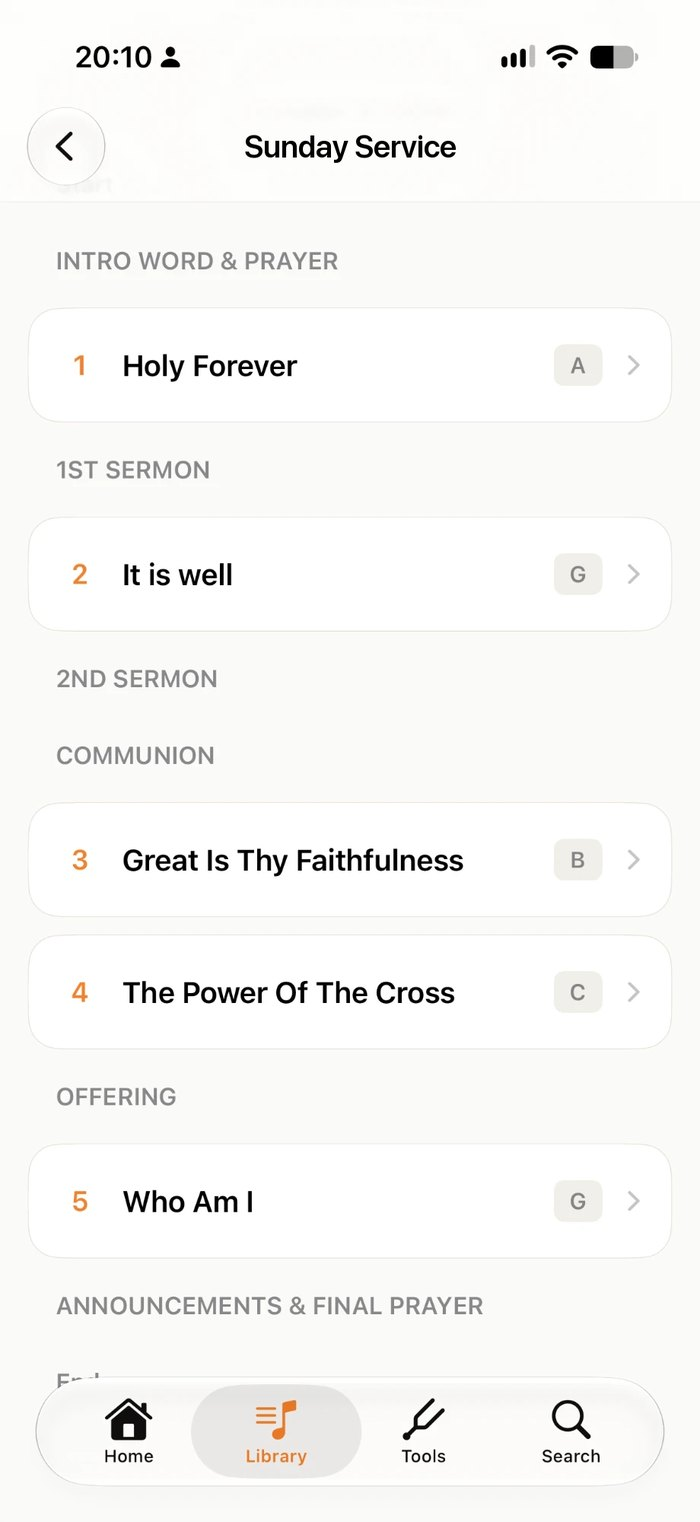
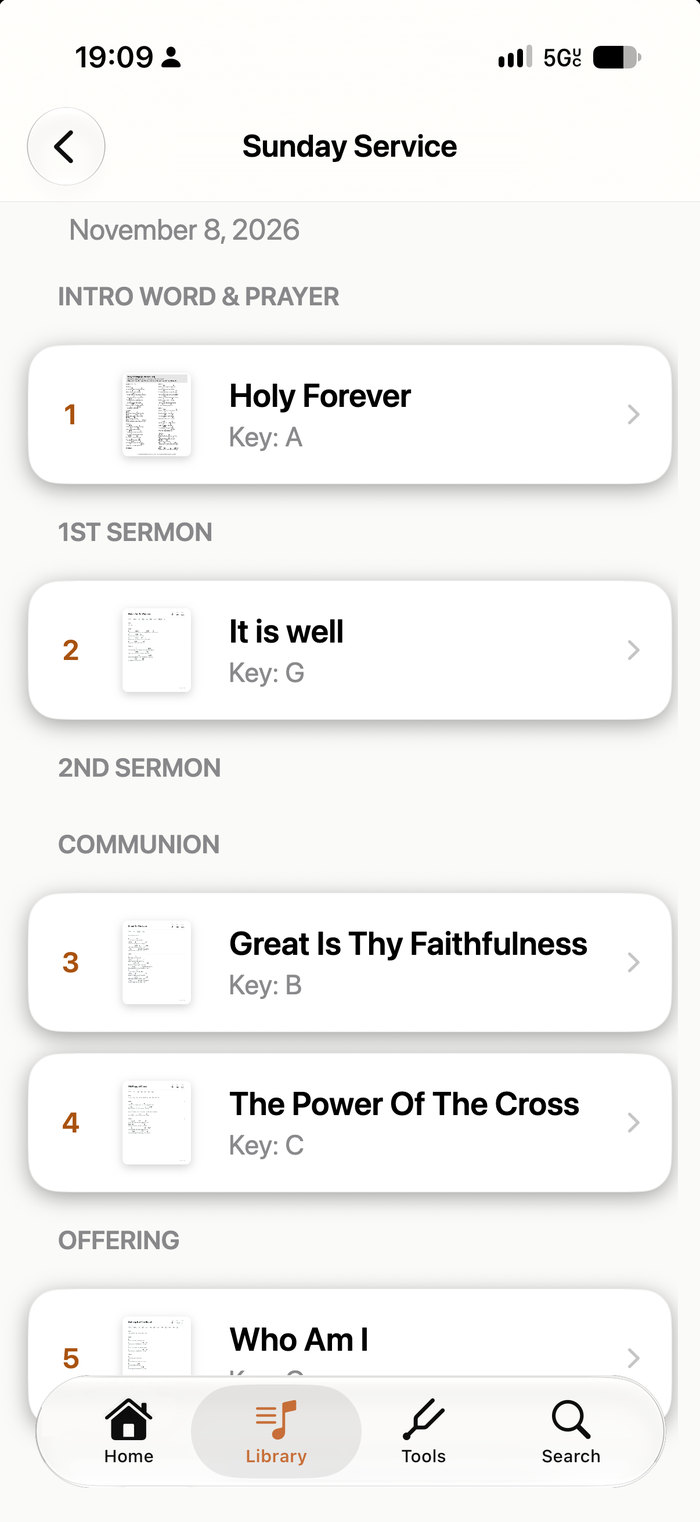
Planning Center plan on 4.2: the site's Sunday Service in the new plan layout
Rebuilt from the owner's 4.2 iPhone capture of a Planning Center plan (full-resolution
original, kept private): same order of service as before (Intro Word & Prayer, 1st and
2nd Sermon, Communion, Offering; Holy Forever A, It is well G, Great Is Thy Faithfulness B,
The Power Of The Cross C, Who Am I G), set in the app's measured layout and type: the
real cards and shadows, nav bar and tab bar (its glass cleaned of the old rows), titles
and keys in the system font at the app's sizes. No lengths, as before, so the header
shows only the date and no section times, as the app does for an untimed plan. 700x1522.

diff --git a/index.html b/index.html
@@ -257,7 +257,7 @@
           <img class="partner-logo" src="assets/planning-center-services-logo.svg" alt="Planning Center Services" width="194" height="42" loading="lazy">
           <h3>Works with <em>Planning Center.</em></h3>
           <p>Connect your Planning Center Services account and your team's songs and upcoming services appear next to your set lists, ready to play.</p>
-          <div class="step-visual"><div class="device phone"><div class="screen shot"><img src="assets/planning-center-iphone.jpg?v=1" alt="A Planning Center service plan in Music Folder on iPhone: the order of service with five songs, each with its key" width="700" height="1522" loading="lazy"></div></div></div>
+          <div class="step-visual"><div class="device phone"><div class="screen shot"><img src="assets/planning-center-iphone.jpg?v=2" alt="A Planning Center service plan in Music Folder on iPhone: the order of service with five songs, each with its key" width="700" height="1522" loading="lazy"></div></div></div>
         </article>
         <article class="step" data-step="4" id="teams">
           <h3>Work together as a team.</h3>
@@ -270,7 +270,7 @@
           <div class="frame is-active" data-step="0"><div class="device phone"><div class="screen shot"><img src="assets/library-screen.jpg?v=3" alt="" width="700" height="1522" loading="lazy"></div></div></div>
           <div class="frame" data-step="1"><div class="device tablet landscape"><div class="screen shot"><img src="assets/setlist-concert-ipad.jpg?v=3" alt="" width="1306" height="980" loading="lazy"></div></div></div>
           <div class="frame" data-step="2"><div class="device tablet"><div class="screen shot"><img src="assets/annotate-ipad.jpg?v=2" alt="" width="900" height="1305" loading="lazy"></div><svg class="pencil" viewBox="0 0 380 22" aria-hidden="true" focusable="false"><defs><linearGradient id="pcBody" x1="0" y1="0" x2="0" y2="1"><stop offset="0" stop-color="#FFFFFF"/><stop offset=".38" stop-color="#F7F7F5"/><stop offset=".8" stop-color="#DEDEDA"/><stop offset="1" stop-color="#C9C9C5"/></linearGradient><linearGradient id="pcTip" x1="0" y1="0" x2="0" y2="1"><stop offset="0" stop-color="#FAFAF8"/><stop offset="1" stop-color="#CFCFCB"/></linearGradient></defs><path d="M34 1H369a10 10 0 0 1 0 20H34Z" fill="url(#pcBody)"/><path d="M34 4.2H369" stroke="#fff" stroke-width="1.6" opacity=".9"/><path d="M34 15.6H372" stroke="#000" stroke-opacity=".05" stroke-width="1"/><path d="M34 1L7 9.2v3.6L34 21Z" fill="url(#pcTip)"/><path d="M8.2 8.8L1 10.4a.7.7 0 0 0 0 1.2L8.2 13.2Z" fill="#8E8E8A"/><path d="M34 1v20" stroke="#000" stroke-opacity=".06"/></svg></div></div>
-          <div class="frame" data-step="3"><div class="device phone"><div class="screen shot"><img src="assets/planning-center-iphone.jpg?v=1" alt="" width="700" height="1522" loading="lazy"></div></div></div>
+          <div class="frame" data-step="3"><div class="device phone"><div class="screen shot"><img src="assets/planning-center-iphone.jpg?v=2" alt="" width="700" height="1522" loading="lazy"></div></div></div>
           <div class="frame" data-step="4"><div class="device tablet fit"><div class="screen shot"><img src="/assets/collab-ipad.jpg?v=2" alt="" width="900" height="1306" loading="lazy"></div></div></div>
         </div>
       </div>

diff --git a/for/worship-teams.html b/for/worship-teams.html
@@ -233,7 +233,7 @@
       <div class="rf-visual"><div class="device phone fit"><div class="screen shot"><img src="/assets/recording-iphone.jpg?v=1" alt="A chord chart for Come Thou Fount open in Music Folder on iPhone, with the song's reference recording playing in the bar above the chart" width="700" height="1522" loading="lazy"></div></div></div>
     </div><div class="row-feature">
       <div class="rf-text"><h2 class="heading-sm">Works with <em class="pc">Planning Center.</em></h2><p>If your church plans in Planning Center, connect it and upcoming services appear next to your set lists, in order, with each song’s key. Mix in your own charts, and the plan’s audio plays right in the reader.</p><ul class="rf-points"><li><svg viewBox="0 0 16 16" fill="none" stroke="currentColor" stroke-width="1.9" stroke-linecap="round" stroke-linejoin="round" aria-hidden="true"><path d="M3 8.5l3 3 7-7"/></svg><span>Your team’s song library as a folder</span></li><li><svg viewBox="0 0 16 16" fill="none" stroke="currentColor" stroke-width="1.9" stroke-linecap="round" stroke-linejoin="round" aria-hidden="true"><path d="M3 8.5l3 3 7-7"/></svg><span>Upcoming services next to your set lists</span></li><li><svg viewBox="0 0 16 16" fill="none" stroke="currentColor" stroke-width="1.9" stroke-linecap="round" stroke-linejoin="round" aria-hidden="true"><path d="M3 8.5l3 3 7-7"/></svg><span>Read-only: plans stay in Planning Center</span></li></ul><p class="rf-more"><a href="/planning-center">How the connection works</a></p></div>
-      <div class="rf-visual"><div class="device phone fit"><div class="screen shot"><img src="/assets/planning-center-iphone.jpg?v=1" alt="A Planning Center service plan in Music Folder on iPhone: the order of service with five songs, each with its key" width="700" height="1522" loading="lazy"></div></div></div>
+      <div class="rf-visual"><div class="device phone fit"><div class="screen shot"><img src="/assets/planning-center-iphone.jpg?v=2" alt="A Planning Center service plan in Music Folder on iPhone: the order of service with five songs, each with its key" width="700" height="1522" loading="lazy"></div></div></div>
     </div>
   </div>
 </section>

diff --git a/planning-center.html b/planning-center.html
@@ -219,7 +219,7 @@
   <div class="wrap rows pc-rows">
     <div class="row-feature">
       <div class="rf-text"><h2 class="heading-sm">Every service, <em>in order.</em></h2><p>Each upcoming service shows its songs in the order of the plan, with each song's key, ready to open.</p><ul class="rf-points"><li><svg viewBox="0 0 16 16" fill="none" stroke="currentColor" stroke-width="1.9" stroke-linecap="round" stroke-linejoin="round" aria-hidden="true"><path d="M3 8.5l3 3 7-7"/></svg><span>Upcoming services next to your set lists</span></li><li><svg viewBox="0 0 16 16" fill="none" stroke="currentColor" stroke-width="1.9" stroke-linecap="round" stroke-linejoin="round" aria-hidden="true"><path d="M3 8.5l3 3 7-7"/></svg><span>Your team's song library as a folder</span></li><li><svg viewBox="0 0 16 16" fill="none" stroke="currentColor" stroke-width="1.9" stroke-linecap="round" stroke-linejoin="round" aria-hidden="true"><path d="M3 8.5l3 3 7-7"/></svg><span>Mix Planning Center songs with your own charts in one set</span></li></ul></div>
-      <div class="rf-visual"><div class="device phone fit"><div class="screen shot"><img src="/assets/planning-center-iphone.jpg?v=1" alt="A Planning Center service plan in Music Folder on iPhone: the order of service with five songs, each with its key" width="700" height="1522" loading="lazy"></div></div></div>
+      <div class="rf-visual"><div class="device phone fit"><div class="screen shot"><img src="/assets/planning-center-iphone.jpg?v=2" alt="A Planning Center service plan in Music Folder on iPhone: the order of service with five songs, each with its key" width="700" height="1522" loading="lazy"></div></div></div>
     </div>
   </div>
 </section>
